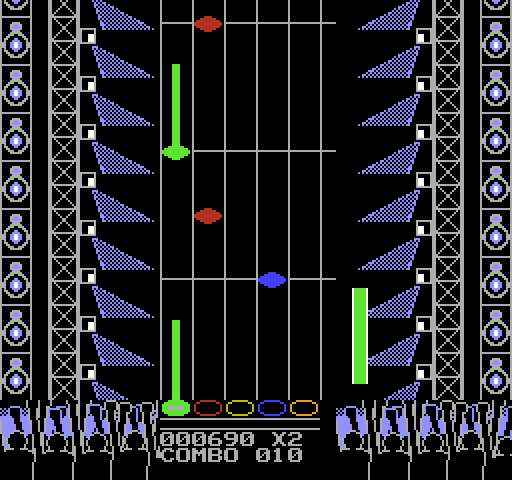
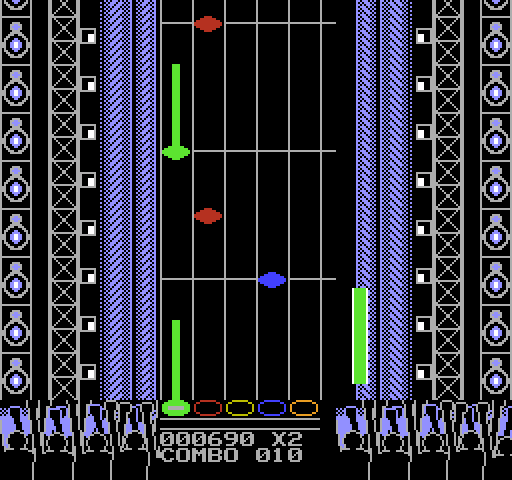
Escenario: haces de luz verticales en vez de triangulos
Los haces diagonales eran un triangulo de 16 px que cortaba el foco siguiente y
se repetia cada 24 px: con el scroll parecian sierras. Ahora son columnas de luz
continuas (dos por lado, una ancha y una angosta; una entre cada foco y la torre
con 2 jugadores), punteadas densas al centro y ralas en las orillas, con una linea
solida en la orilla que da a la autopista. Como no se cortan con el periodo, el
scroll no se nota; siguen cambiando de color con las luces (color 2 de la paleta 3).

Closes #12

Changed region(s): [[0.1875, 0.0, 0.3125, 0.8438], [0.6875, 0.0, 0.8125, 0.8438]]

diff --git a/pctools/nesband_tools/scene.py b/pctools/nesband_tools/scene.py
@@ -132,20 +132,33 @@ def draw_truss(cv: Canvas, x0: int) -> None:
         cv.set(x0 + x, 12, 1)
 
 
-def draw_lamp(cv: Canvas, x0: int, direction: int) -> None:
-    """Foco de 8x8 pegado a la torre (x0 = su borde izquierdo) y su haz de luz hacia abajo.
+def draw_shaft(cv: Canvas, x0: int, width: int, edge: int) -> None:
+    """Haz de luz vertical y continuo (no se corta con el período: con el scroll se ve fijo).
 
-    direction = +1: el haz abre hacia la derecha; -1: hacia la izquierda.
+    Punteado denso al centro y ralo hacia las orillas, como luz difusa; la orilla del lado
+    `edge` (+1 derecha, -1 izquierda; la que da a la autopista) lleva una línea sólida.
     """
-    apex_x = x0 + (6 if direction > 0 else 1)
-    for rel in range(1, 17):  # el haz: borde azul y relleno punteado
-        center = apex_x + direction * rel * 1.1
-        half = 1.0 + rel * 0.75
-        for x in range(int(center - half) - 1, int(center + half) + 2):
-            if abs(x - center) <= half:
-                edge = abs(x - center) > half - 1.1
-                if edge or (x + rel) % 2 == 0:
-                    cv.set(x, 14 + rel, 2)
+    center = x0 + (width - 1) / 2
+    half = width / 2
+    for y in range(PERIOD):
+        for x in range(x0, x0 + width):
+            d = abs(x - center) / half
+            if d < 0.38:
+                lit = (x + y) % 4 != 3  # denso: 3 de cada 4
+            elif d < 0.72:
+                lit = (x + y) % 2 == 0  # medio: tablero
+            else:
+                lit = (x + 2 * y) % 4 == 0  # ralo: 1 de cada 4
+            if lit:
+                cv.set(x, y, 2)
+        cv.set(x0 + (width - 1 if edge > 0 else 0), y, 2)
+
+
+def draw_lamp(cv: Canvas, x0: int, direction: int) -> None:
+    """Foco de 8x8 pegado a la torre (x0 = su borde izquierdo); su luz es el haz que se dibuja al lado.
+
+    direction = +1: el foco mira a la derecha; -1: a la izquierda.
+    """
     cv.rect(x0, 6, x0 + 7, 13, 0)  # el foco
     for x in range(8):
         cv.set(x0 + x, 6, 1)
@@ -160,6 +173,8 @@ def draw_lamp(cv: Canvas, x0: int, direction: int) -> None:
 def side_canvas() -> Canvas:
     """El costado del escenario (visto desde el borde de la pantalla hacia la autopista)."""
     cv = Canvas(SIDE_W, PERIOD, wrap_y=True)
+    draw_shaft(cv, 50, 16, +1)   # dos haces, uno ancho y otro angosto
+    draw_shaft(cv, 68, 10, +1)
     draw_lamp(cv, 40, +1)
     draw_speaker(cv, 0)
     draw_truss(cv, 24)
@@ -169,6 +184,8 @@ def side_canvas() -> Canvas:
 def center_canvas() -> Canvas:
     """El centro con 2 jugadores (7 tiles = 56 px): una torre con un foco a cada lado."""
     cv = Canvas(56, PERIOD, wrap_y=True)
+    draw_shaft(cv, 12, 8, -1)    # un haz entre cada foco y la torre
+    draw_shaft(cv, 36, 8, +1)
     draw_lamp(cv, 4, -1)
     draw_lamp(cv, 44, +1)
     draw_truss(cv, 20)
